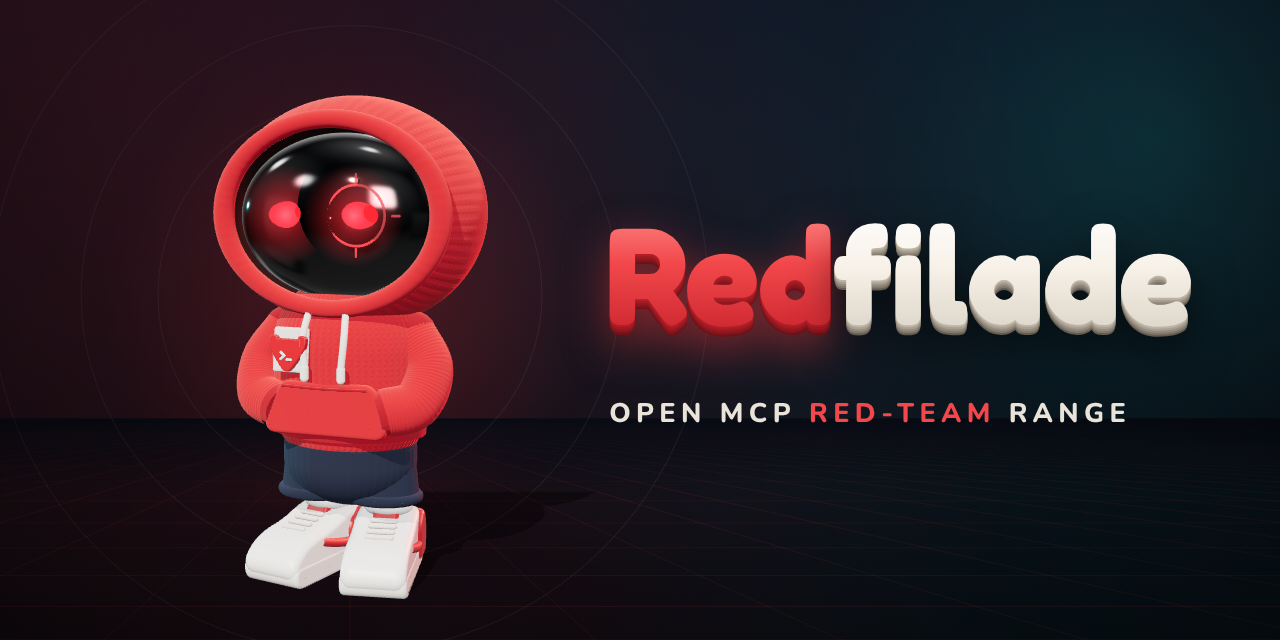
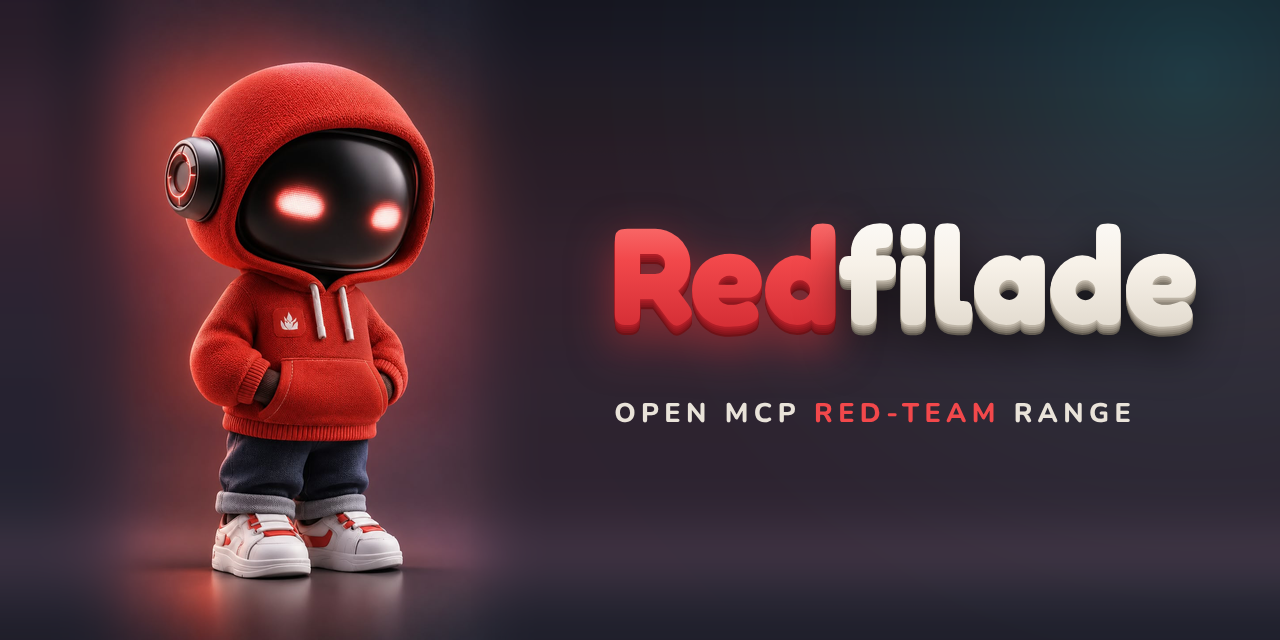
brand: use Sanket's mascot artwork directly
- Add the mascot artwork as-is: assets/brand/mascot/redfilade-mascot.png
  (main) and redfilade-mascot-friendly.png (friendly second pose).
- Avatar, social preview and README banner are built from the main
  artwork without changing it: only cropped and framed, with the
  background extended under the Redfilade wordmark.
- assets/brand/compose/build.sh rebuilds them reproducibly.
- Remove the three.js 3D render code, no longer used.
- Credit the artwork in NOTICE.

Claude-Session: https://claude.ai/code/session_01GE3jThfmoZH7k4uwyUiJi7

diff --git a/assets/brand/compose/word.html b/assets/brand/compose/word.html
@@ -1,0 +1,21 @@
+<!doctype html><html><head><meta charset="utf-8"><style>
+@font-face{font-family:FRB;src:url(fredoka-latin-700-normal.woff2)}
+@font-face{font-family:NUN;src:url(nunito-latin-800-normal.woff2)}
+html,body{margin:0;overflow:hidden}
+#s{position:relative;background-size:cover}
+.word{position:absolute;font-family:FRB;letter-spacing:-.005em;line-height:1;white-space:nowrap;font-feature-settings:'liga' 0}
+.red{background:linear-gradient(180deg,#FF8A86 0%,#F2484B 42%,#C8232C 100%);-webkit-background-clip:text;color:transparent;
+ filter:drop-shadow(0 2px 0 #B01E27) drop-shadow(0 2px 0 #A11B23) drop-shadow(0 2px 0 #921820) drop-shadow(0 2px 0 #84151C) drop-shadow(0 2px 0 #6E1217) drop-shadow(0 14px 22px rgba(229,56,59,.5))}
+.cream{background:linear-gradient(180deg,#FFFFFF 0%,#F7F1E8 45%,#D9D1C4 100%);-webkit-background-clip:text;color:transparent;
+ filter:drop-shadow(0 2px 0 #BDB4A6) drop-shadow(0 2px 0 #A9A092) drop-shadow(0 2px 0 #958C7F) drop-shadow(0 2px 0 #81796C) drop-shadow(0 2px 0 #635C52) drop-shadow(0 14px 22px rgba(0,0,0,.55))}
+.tag{position:absolute;font-family:NUN;color:#E9E3D9;letter-spacing:.2em;text-transform:uppercase;white-space:nowrap}
+.tag b{color:#F2484B;font-weight:inherit}
+</style></head><body><div id="s"></div>
+<script>
+const q=new URLSearchParams(location.search), m=q.get('mode');
+const L={social:{W:1280,H:640,bg:'bg_social.png',x:610,y:205,fs:138,ts:27,ty:395},
+         banner:{W:1600,H:520,bg:'bg_banner.png',x:690,y:140,fs:168,ts:33,ty:350}}[m];
+const s=document.getElementById('s'); s.style.width=L.W+'px'; s.style.height=L.H+'px'; s.style.backgroundImage=`url(${L.bg})`;
+s.innerHTML=`<div class="word" style="left:${L.x}px;top:${L.y}px;font-size:${L.fs}px"><span class="red">Red</span><span class="cream">filade</span></div>
+<div class="tag" style="left:${L.x+L.fs*0.03}px;top:${L.ty}px;font-size:${L.ts}px">Open MCP <b>red-team</b> range</div>`;
+</script></body></html>

diff --git a/assets/brand/compose/compose.py b/assets/brand/compose/compose.py
@@ -1,0 +1,36 @@
+"""Build the avatar, social preview and banner from the mascot artwork (unchanged).
+Run via assets/brand/compose/build.sh."""
+import os, sys
+import numpy as np
+from PIL import Image, ImageFilter, ImageDraw
+HERE=os.path.dirname(os.path.abspath(__file__)); BRAND=os.path.dirname(HERE); WORK=sys.argv[1]
+src=Image.open(os.path.join(BRAND,'mascot','redfilade-mascot.png')).convert('RGB')
+def scene(W,H,img_h,img_x,teal=True):
+    sc=img_h/src.height; im=src.resize((round(src.width*sc),img_h),Image.LANCZOS)
+    a=np.asarray(im).astype(np.float32)
+    # extend: stretch the right edge column across, and the left edge column to the left
+    canvas=np.zeros((H,W,3),np.float32)
+    y0=(H-img_h)//2
+    right=a[:,-6:,:].mean(axis=1,keepdims=True); left=a[:,:6,:].mean(axis=1,keepdims=True)
+    canvas[y0:y0+img_h,:img_x]=left; canvas[y0:y0+img_h,img_x:]=right
+    # blend the image in with feathered left/right edges
+    fw=70; ramp=np.ones(im.width,np.float32); ramp[:fw]=np.linspace(0,1,fw); ramp[-fw:]=np.linspace(1,0,fw)
+    if img_x<=0: ramp[:fw]=1
+    seg=canvas[y0:y0+img_h,img_x:img_x+im.width]; w=ramp[None,:,None][:, :seg.shape[1]]
+    canvas[y0:y0+img_h,img_x:img_x+im.width]=seg*(1-w)+a[:, :seg.shape[1]]*w
+    out=Image.fromarray(canvas.clip(0,255).astype(np.uint8))
+    # soften the stretched area so streaks disappear (keep the mascot sharp)
+    blurred=out.filter(ImageFilter.GaussianBlur(18)); mask=Image.new('L',(W,H),255); d=ImageDraw.Draw(mask)
+    d.rectangle([img_x+fw,0,img_x+im.width-fw,H],fill=0); mask=mask.filter(ImageFilter.GaussianBlur(30))
+    out=Image.composite(blurred,out,mask)
+    if teal:
+        g=np.zeros((H,W,1),np.float32); yy,xx=np.mgrid[0:H,0:W]
+        cx,cy=W*0.93,H*0.12; r=np.hypot(xx-cx,yy-cy)/(max(W,H)*0.55); g[...,0]=np.clip(1-r,0,1)**2*0.22
+        o=np.asarray(out).astype(np.float32); o=o*(1-g)+np.array([40,175,180])*g
+        out=Image.fromarray(o.clip(0,255).astype(np.uint8))
+    return out
+scene(1280,640,640,60).save(os.path.join(WORK,'bg_social.png'))
+scene(1600,520,520,170).save(os.path.join(WORK,'bg_banner.png'))
+# avatar: head and upper body, square
+src.crop((108,96,108+880,96+880)).resize((1024,1024),Image.LANCZOS).save(os.path.join(BRAND,'redfilade-avatar-1024.png'))
+

diff --git a/assets/brand/build.py b/assets/brand/build.py
@@ -1,6 +1,6 @@
 """Build the flat (2D) Redfilade brand assets. Run: python3 assets/brand/build.py
 
-The 3D banner, social preview and avatar PNGs come from 3d/render.sh instead.
+The mascot banner, social preview and avatar PNGs come from compose/build.sh instead.
 
 Needs fontTools, rsvg-convert and Inter Display installed.
 

diff --git a/README.md b/README.md
@@ -106,7 +106,7 @@ Every report states which level ran, the verdict per scenario, **what could not 
 
 ```text
 .github/            CI (untrusted lane), release (trusted lane), CODEOWNERS, ruleset
-assets/brand/       Logo (3D renders and flat vectors) and the scripts that build them
+assets/brand/       Mascot artwork, banner, avatar and flat vector logo, plus their build scripts
 cmd/redfilade/      CLI (Go)
 internal/           MCP client, scenarios, world, sandbox, consent, oracle, reports, battery
 scenarios/          Range scenarios: data-only manifests (ADR-0013)
